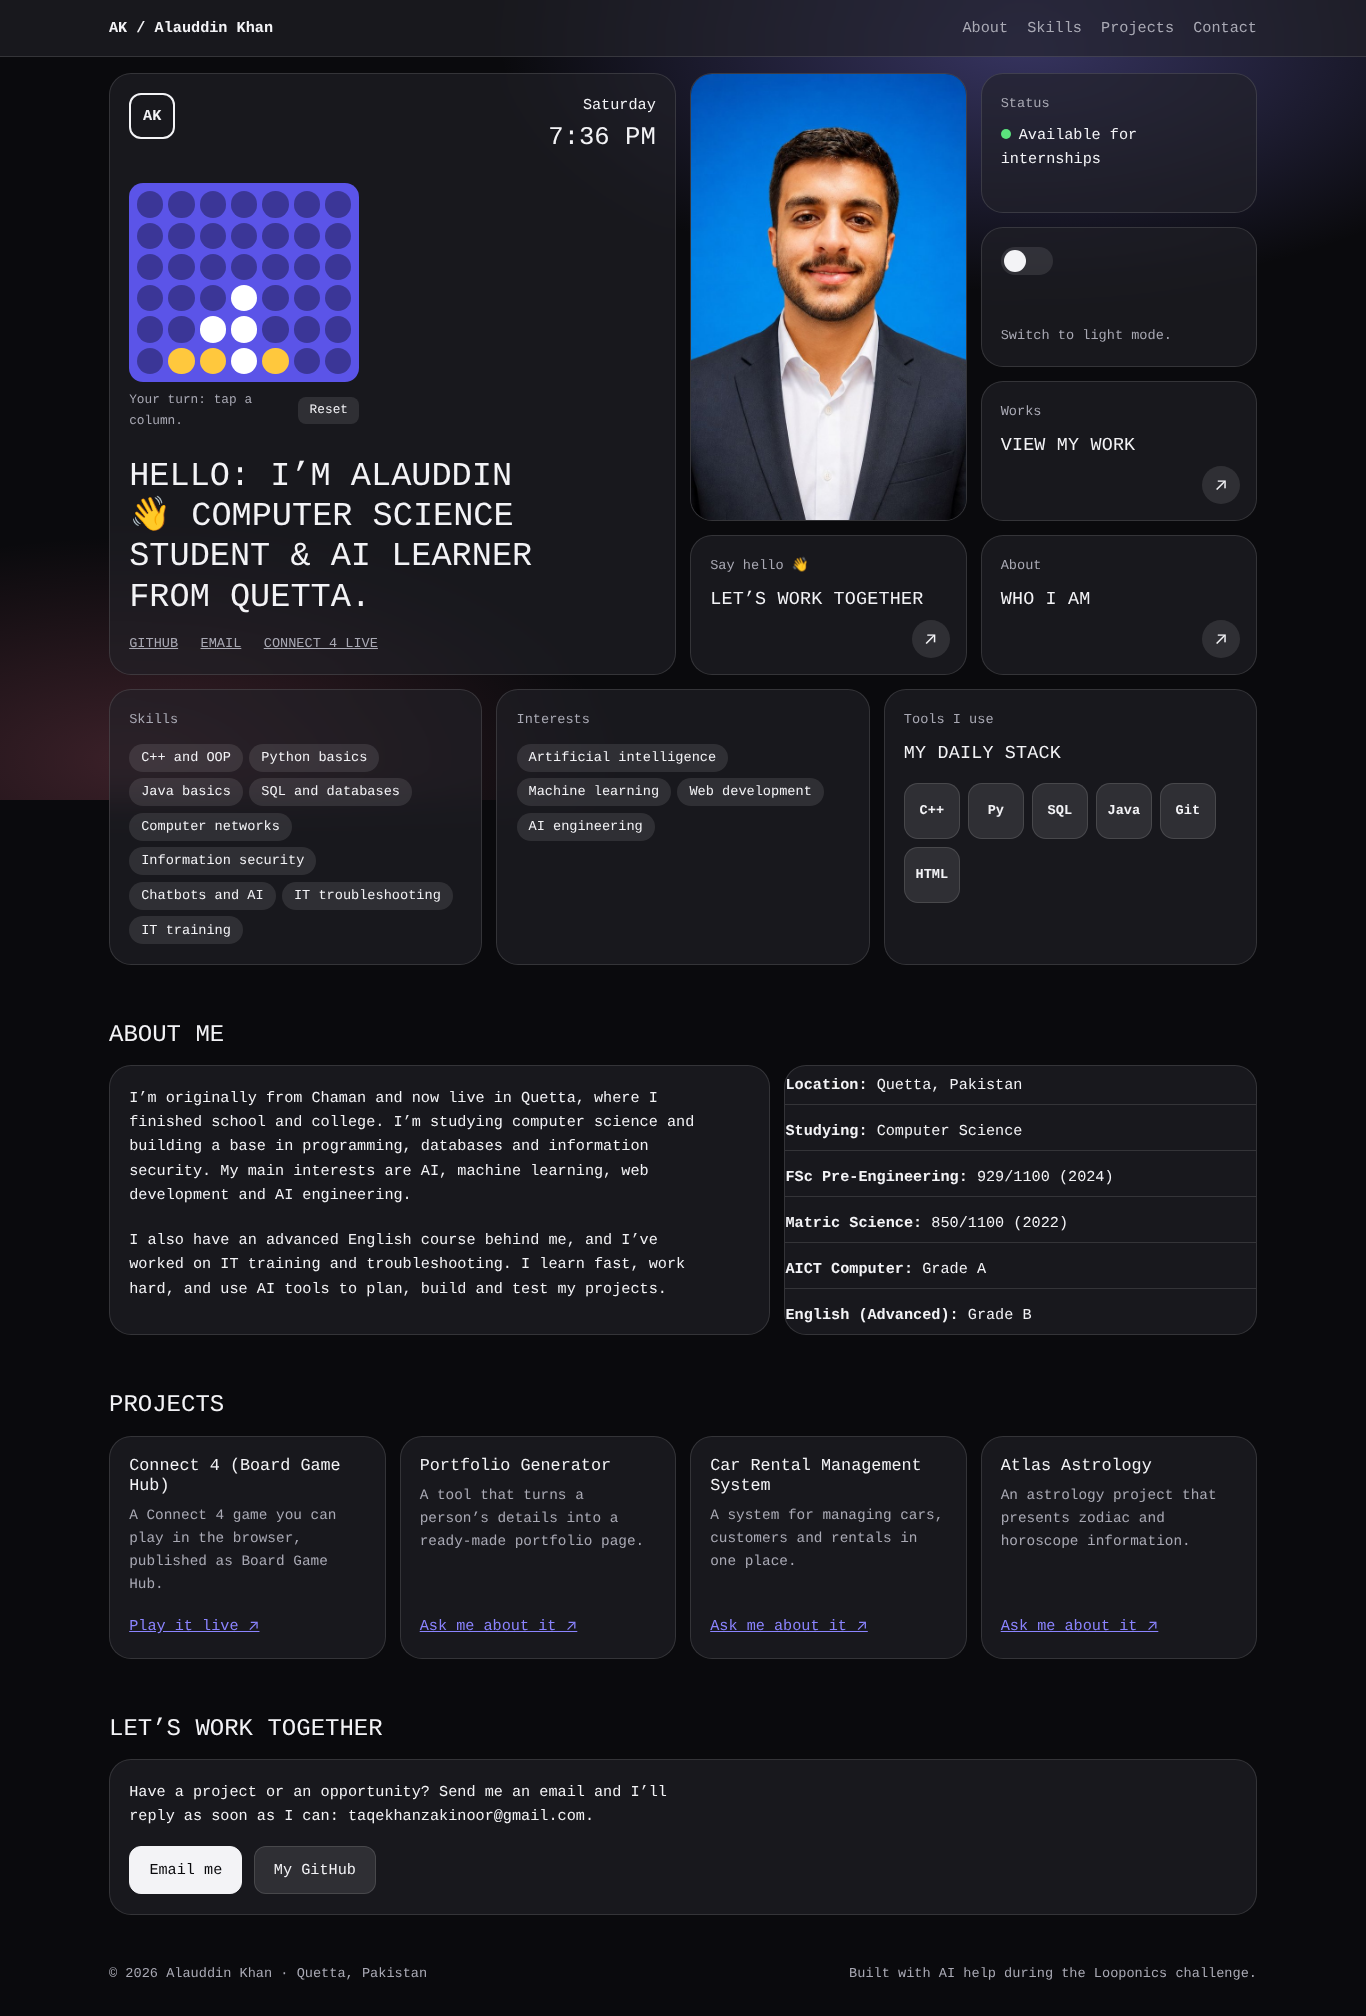
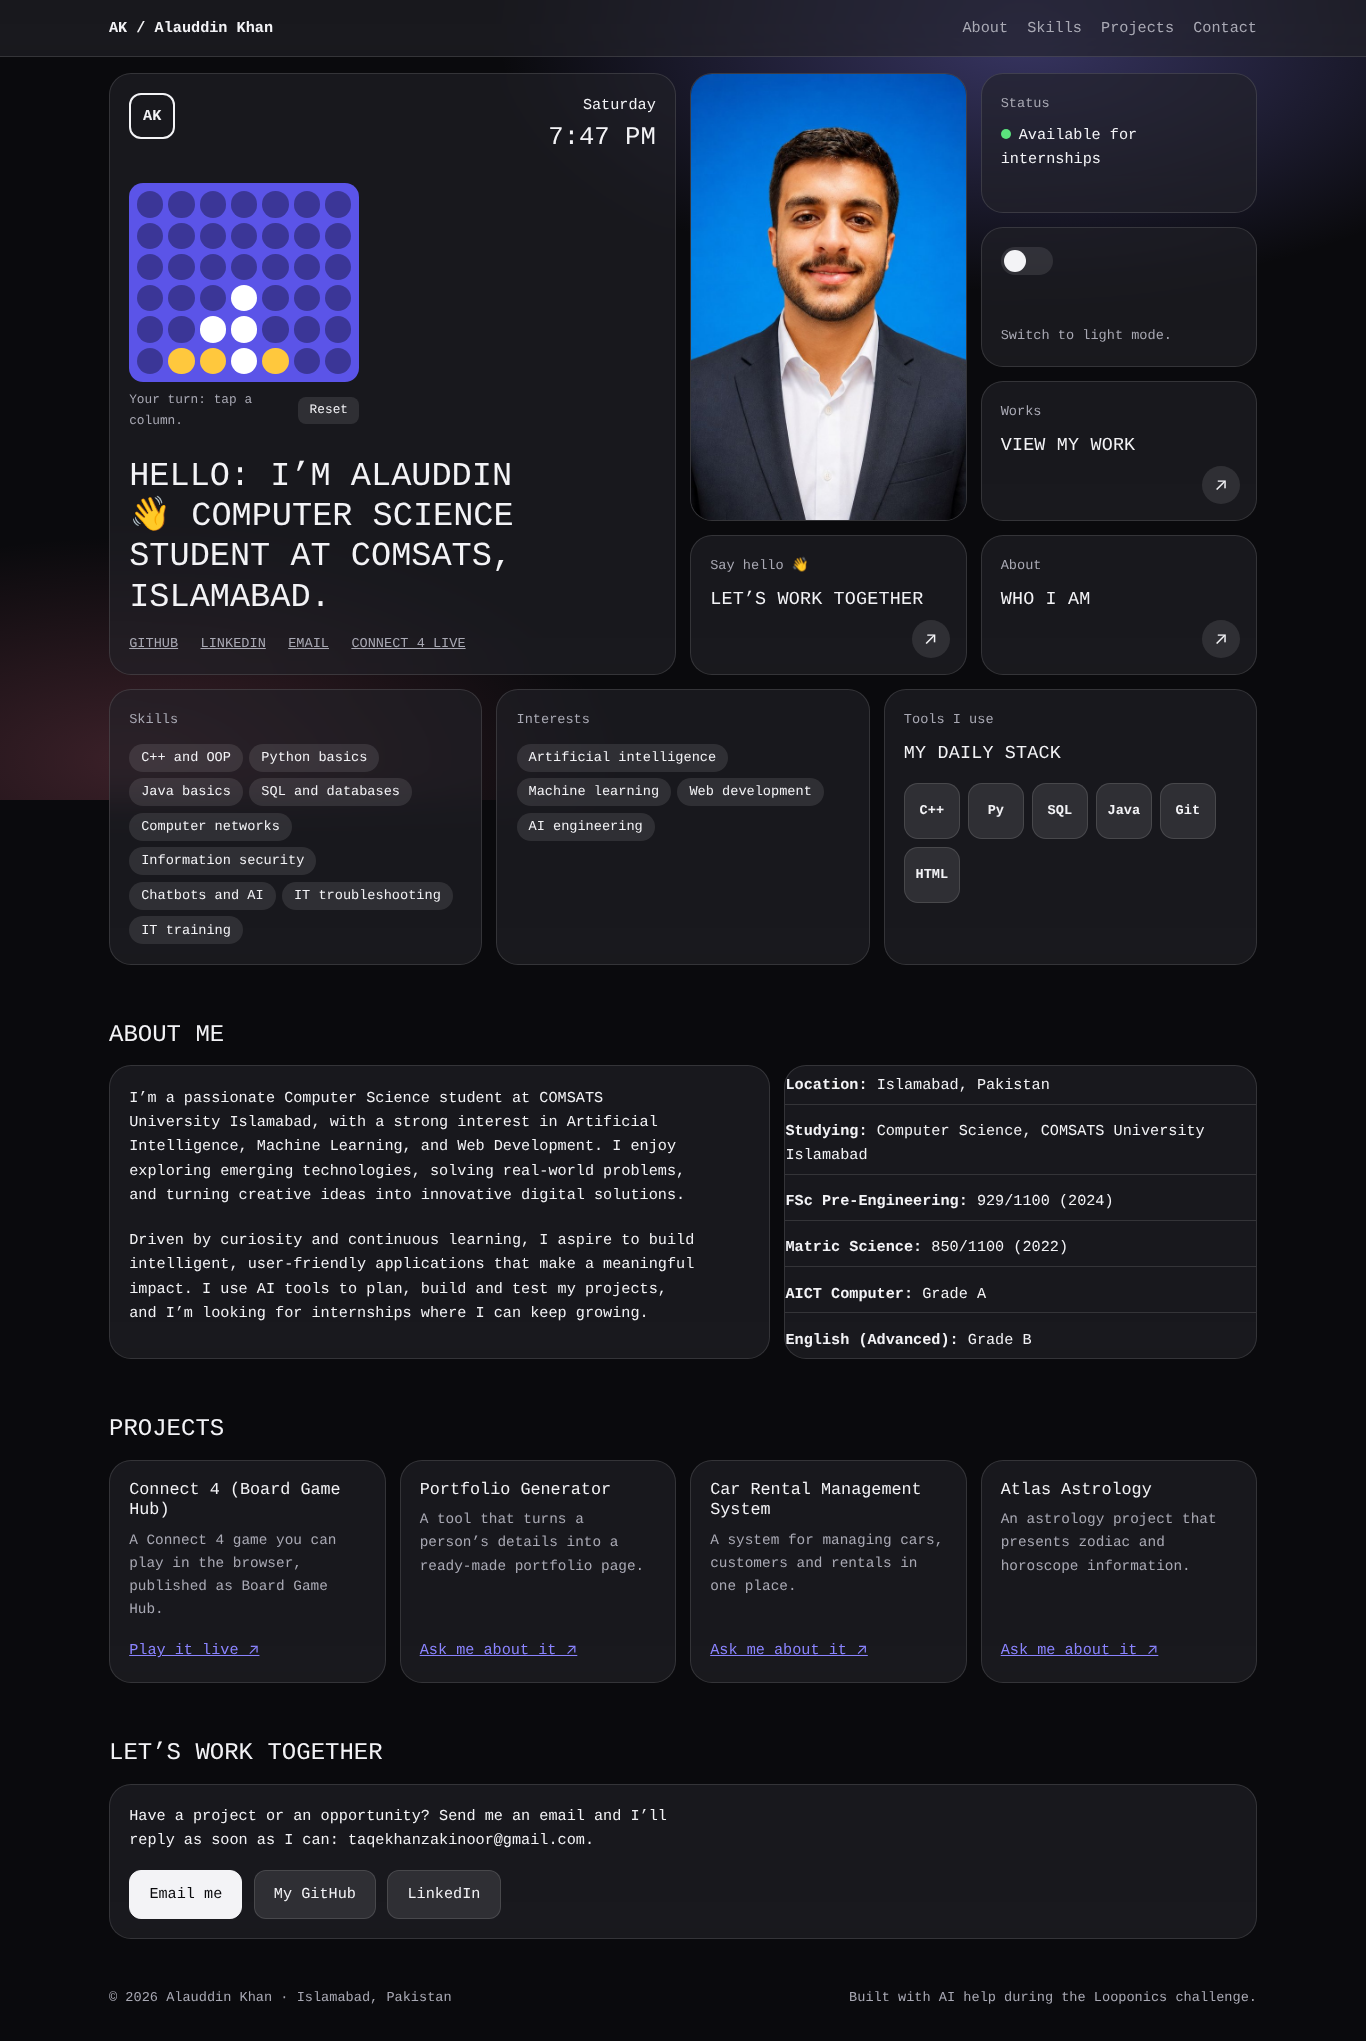
Add LinkedIn, update about

diff --git a/index.html b/index.html
@@ -4,7 +4,7 @@
 <meta charset="utf-8">
 <meta name="viewport" content="width=device-width, initial-scale=1">
 <title>Alauddin Khan – Computer Science Student Portfolio</title>
-<meta name="description" content="Portfolio of Alauddin Khan, a computer science student in Quetta: C++, databases, networks, AI and web development.">
+<meta name="description" content="Portfolio of Alauddin Khan, a computer science student at COMSATS University Islamabad: AI, machine learning and web development.">
 <link rel="preconnect" href="https://fonts.googleapis.com">
 <link rel="preconnect" href="https://fonts.gstatic.com" crossorigin>
 <link href="https://fonts.googleapis.com/css2?family=JetBrains+Mono:wght@400;500;700&display=swap" rel="stylesheet">
@@ -108,9 +108,10 @@ footer .wrap{display:flex;flex-wrap:wrap;justify-content:space-between;gap:1rem}
     <div class="msg"><span id="msg" aria-live="polite">Tap a column to play.</span><button id="reset">Reset</button></div>
    </div>
    <div>
-    <h1>Hello: I’m Alauddin 👋 Computer science student &amp; AI learner from Quetta.</h1>
+    <h1>Hello: I’m Alauddin 👋 Computer science student at COMSATS, Islamabad.</h1>
     <div class="links">
      <a href="https://github.com/taqekhanzakinoor-debug" target="_blank" rel="noopener">GitHub</a>
+     <a href="https://www.linkedin.com/in/alauddin-khan-50ba9333a/" target="_blank" rel="noopener">LinkedIn</a>
      <a href="mailto:taqekhanzakinoor@gmail.com">Email</a>
      <a href="https://connect4-gilt-psi.vercel.app/" target="_blank" rel="noopener">Connect 4 live</a>
     </div>
@@ -138,12 +139,12 @@ footer .wrap{display:flex;flex-wrap:wrap;justify-content:space-between;gap:1rem}
   <h2>About me</h2>
   <div class="sec">
    <div class="tile">
-    <p>I’m originally from Chaman and now live in Quetta, where I finished school and college. I’m studying computer science and building a base in programming, databases and information security. My main interests are AI, machine learning, web development and AI engineering.</p>
-    <p>I also have an advanced English course behind me, and I’ve worked on IT training and troubleshooting. I learn fast, work hard, and use AI tools to plan, build and test my projects.</p>
+    <p>I’m a passionate Computer Science student at COMSATS University Islamabad, with a strong interest in Artificial Intelligence, Machine Learning, and Web Development. I enjoy exploring emerging technologies, solving real-world problems, and turning creative ideas into innovative digital solutions.</p>
+    <p>Driven by curiosity and continuous learning, I aspire to build intelligent, user-friendly applications that make a meaningful impact. I use AI tools to plan, build and test my projects, and I’m looking for internships where I can keep growing.</p>
    </div>
    <ul class="tile facts">
-    <li><strong>Location:</strong> Quetta, Pakistan</li>
-    <li><strong>Studying:</strong> Computer Science</li>
+    <li><strong>Location:</strong> Islamabad, Pakistan</li>
+    <li><strong>Studying:</strong> Computer Science, COMSATS University Islamabad</li>
     <li><strong>FSc Pre-Engineering:</strong> 929/1100 (2024)</li>
     <li><strong>Matric Science:</strong> 850/1100 (2022)</li>
     <li><strong>AICT Computer:</strong> Grade A</li>
@@ -170,12 +171,13 @@ footer .wrap{display:flex;flex-wrap:wrap;justify-content:space-between;gap:1rem}
    <div class="btns">
     <a class="btn main" href="mailto:taqekhanzakinoor@gmail.com?subject=Hello%20from%20your%20portfolio">Email me</a>
     <a class="btn" href="https://github.com/taqekhanzakinoor-debug" target="_blank" rel="noopener">My GitHub</a>
+    <a class="btn" href="https://www.linkedin.com/in/alauddin-khan-50ba9333a/" target="_blank" rel="noopener">LinkedIn</a>
    </div>
   </div>
  </section>
 </main>
 
-<footer><div class="wrap"><span>© <span id="year">2026</span> Alauddin Khan · Quetta, Pakistan</span><span>Built with AI help during the Looponics challenge.</span></div></footer>
+<footer><div class="wrap"><span>© <span id="year">2026</span> Alauddin Khan · Islamabad, Pakistan</span><span>Built with AI help during the Looponics challenge.</span></div></footer>
 
 <script>
 var root=document.documentElement,sw=document.getElementById('theme'),st=document.getElementById('themeText');

diff --git a/project-plan.md b/project-plan.md
@@ -1,7 +1,7 @@
 # Project Plan – Personal Portfolio
 
 ## Idea
-A one-page portfolio for Alauddin Khan, a computer science student in Quetta, showing skills (C++, databases, networks, AI) and projects.
+A one-page portfolio for Alauddin Khan, a computer science student at COMSATS University Islamabad, showing skills (C++, databases, networks, AI) and projects.
 
 ## Audience
 Internship hosts, recruiters, and teachers who need a quick, clear picture of what I can do.
